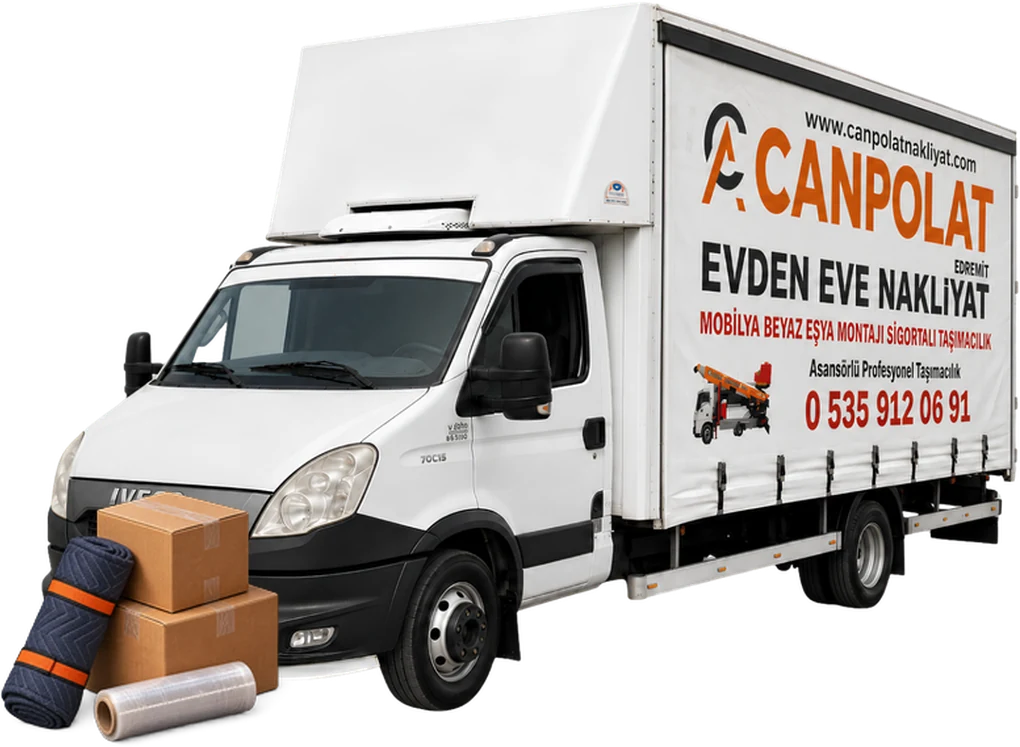
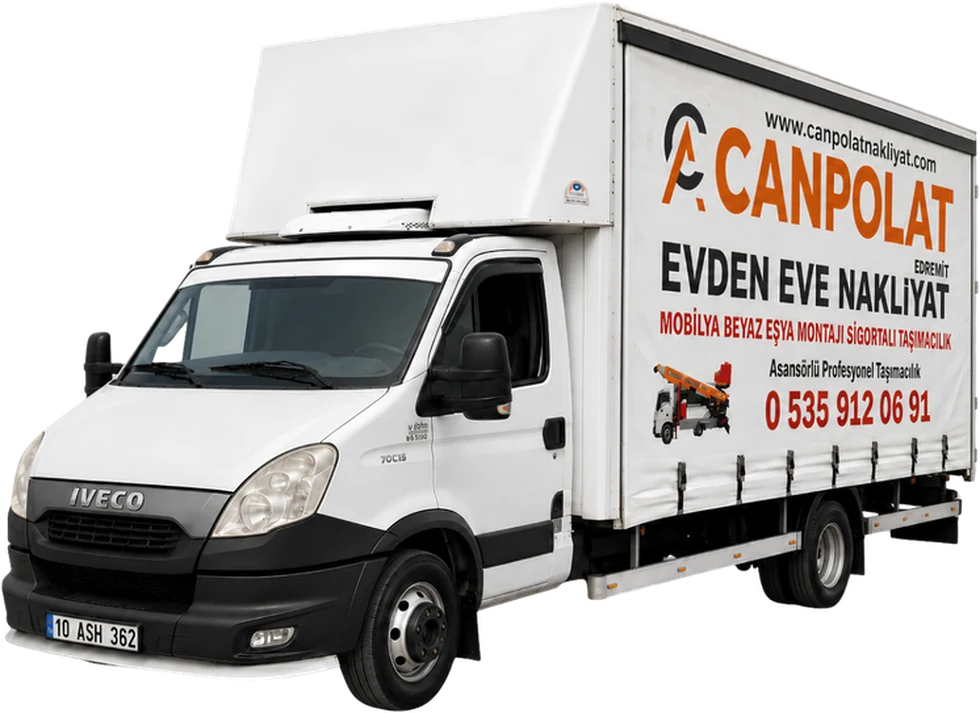
feat: animate the CTA and ground the truck properly
Entrance, played once when the band scrolls into view via the existing
revealOnView helper: the logo drops in, the two halves of the headline
wipe open behind a clip-path 120ms apart, the buttons rise on a stagger,
the truck arrives from the right on a decelerating curve, and the boxes
drop and settle once it has stopped.

Ambient loops at 3.5s, 5.2s and 8.3s — the arc dashes march along the
route, the truck breathes a 3px idle, and the pin emits a ring. The
durations do not divide into each other, so the three never sync up.

The entrance transform sits on a wrapper and the idle on the image itself,
because both animate `transform` and would otherwise cancel each other.

Grounding the truck took two attempts. A dark contact shadow measured
correctly — straddling the wheel line — but stayed invisible: the band's
background is already near black, so a dark ellipse has almost nothing to
darken. The floor is now built the other way round, the way the reference
does it: a faint light pool standing in for a reflective surface, with a
small dark core at the tyre contact on top of it. The pool also breathes
in counterphase with the idle so the truck does not appear to float.

- cta-kamyon.webp is now the truck alone and cta-koli.webp holds the
  boxes, since the two needed separate entrances.
- The mirrored reflection is dropped. It sat below the truck at top: 100%,
  where the section's overflow clipped roughly 64% of it, so it downloaded
[…]

diff --git a/index-template.html b/index-template.html
@@ -29,7 +29,7 @@
   <link rel="preload" as="image" href="/assets/images/hero/canpolat-hero-bg-2026.webp?v=20260809-02" media="(min-width: 721px)">
   <link rel="preload" as="image" href="/assets/images/hero-r8/platform-p00-r8-reference-exact.png" fetchpriority="high">
   <link rel="preload" as="image" href="/assets/images/hero-r8/truck-t00-r6.png" fetchpriority="high">
-  <link rel="stylesheet" href="/css/style.css?v=20260809-10">
+  <link rel="stylesheet" href="/css/style.css?v=20260809-11">
   <link rel="stylesheet" href="/css/hero-animated.css?v=20260809-01">
   <script type="application/ld+json">
   {
@@ -470,6 +470,7 @@
           <path class="final-cta__arc-line" d="M8 192C8 74 118 8 246 8s206 62 206 170"/>
         </svg>
         <span class="final-cta__pin">
+          <span class="final-cta__pin-ring"></span>
           <svg viewBox="0 0 24 24"><path d="M19 10c0 5.5-7 11-7 11S5 15.5 5 10a7 7 0 1 1 14 0Z"/><circle cx="12" cy="10" r="2.4"/></svg>
         </span>
       </div>
@@ -477,7 +478,7 @@
       <div class="container final-cta__inner">
         <div class="final-cta__content">
           <svg class="cta__logo" aria-hidden="true" version="1.1" viewBox="0 0 597 150.91" xmlns="http://www.w3.org/2000/svg" xmlns:xlink="http://www.w3.org/1999/xlink"><defs><g id="p"><path d="m31.844 1.0625c9.7969 0 17.703-3.5781 22.875-10.031l-9.5781-8.6562c-3.3438 4.0156-7.4375 6.2188-12.531 6.2188-8.75 0-14.828-6.0781-14.828-15.188 0-9.125 6.0781-15.203 14.828-15.203 5.0938 0 9.1875 2.2031 12.531 6.2344l9.5781-8.6719c-5.1719-6.4531-13.078-10.031-22.875-10.031-16.875 0-29.266 11.484-29.266 27.672s12.391 27.656 29.266 27.656z"/></g><g id="d"><path d="m45.141 0h15.656l-23.562-53.203h-14.812l-23.484 53.203h15.344l4.1875-10.344h22.5zm-22.266-21.438 6.8438-17.016 6.8438 17.016z"/></g><g id="o"><path d="m41.188-53.203v28.344l-23.484-28.344h-12.391v53.203h14.75v-28.344l23.484 28.344h12.391v-53.203z"/></g><g id="n"><path d="m29.641-53.203h-24.328v53.203h15.062v-13.906h9.2656c14.516 0 23.641-7.5312 23.641-19.609 0-12.156-9.125-19.688-23.641-19.688zm-0.90625 27.438h-8.3594v-15.578h8.3594c6.2188 0 9.3438 2.8906 9.3438 7.8281 0 4.8594-3.125 7.75-9.3438 7.75z"/></g><g id="m"><path d="m32.141 1.0625c17.031 0 29.578-11.703 29.578-27.656 0-15.969-12.547-27.672-29.578-27.672-17.016 0-29.562 11.703-29.562 27.672 0 15.953 12.547 27.656 29.562 27.656zm0-12.469c-8.0469 0-14.359-6-14.359-15.188 0-9.2031 6.3125-15.203 14.359-15.203 8.0625 0 14.375 6 14.375 15.203 0 9.1875-6.3125 15.188-14.375 15.188z"/></g><g id="l"><path d="m5.3125 0h40.438v-11.938h-25.375v-41.266h-15.062z"/></g><g id="k"><path d="m16.641 0h15.047v-41.266h16.266v-11.938h-47.656v11.938h16.344z"/></g><g id="a"><path d="m11.453-7.3125v-6.125h13.375v-7.0781h-13.375v-5.6406h15.188v-7.3125h-23.625v33.469h24.188v-7.3125z"/></g><g id="c"><path d="m25.125-33.469-8.3438 21.797-8.1719-21.797h-9.2188l12.875 33.469h8.3906l12.906-33.469z"/></g><g id="j"><path d="m3.0156 0h14.234c9.9844 0 16.828-6.4531 16.828-16.734s-6.8438-16.734-16.828-16.734h-14.234zm8.5156-7.5469v-18.375h5.375c5.125 0 8.5625 3.4062 8.5625 9.1875s-3.4375 9.1875-8.5625 9.1875z"/></g><g id="b"><path d="m23.328-33.469v17.828l-13.297-17.828h-7.0156v33.469h8.3438v-17.828l13.297 17.828h7.0156v-33.469z"/></g><g id="i"><path d="m25.562 0h8.8594l-13.344-33.469h-8.3906l-13.297 33.469h8.7031l2.3594-6.5h12.734zm-12.609-13.484 3.875-10.703 3.875 10.703z"/></g><g id="h"><path d="m23.234 0h9.9062l-12.953-18.641 12.297-14.828h-9.375l-11.656 13.906v-13.906h-8.4375v33.469h8.4375v-8.3594l3.1719-3.7812z"/></g><g id="g"><path d="m3.0156 0h22.891v-7.5h-14.375v-25.969h-8.5156z"/></g><g id="f"><path d="m7.2656-36.094c2.5 0 4.2656-1.9688 4.2656-4.7344 0-2.7344-1.7656-4.6875-4.2656-4.6875-2.4844 0-4.25 1.9531-4.25 4.6875 0 2.7656 1.7656 4.7344 4.25 4.7344zm-4.25 36.094h8.5156v-33.469h-8.5156z"/></g><g id="e"><path d="m30.688-33.469h-8.2656l-7.1406 13.297-7.1406-13.297h-9l11.484 21.328v12.141h8.5312v-12z"/></g></defs><g transform="translate(-122.16 -221.96)" fill="#ef7c00"><use x="221.16452" y="315.61823" xlink:href="#p"/><use x="276.33868" y="315.61823" xlink:href="#d"/><use x="336.07272" y="315.61823" xlink:href="#o"/><use x="397.32672" y="315.61823" xlink:href="#n"/><use x="453.33688" y="315.61823" xlink:href="#m"/><use x="517.6308" y="315.61823" xlink:href="#l"/><use x="564.599" y="315.61823" xlink:href="#d"/><use x="621.67316" y="315.61823" xlink:href="#k"/></g><g transform="translate(-122.16 -221.96)" fill="#253349"><use x="245.85118" y="368.4827" xlink:href="#a"/><use x="274.33759" y="368.4827" xlink:href="#c"/><use x="306.65405" y="368.4827" xlink:href="#j"/><use x="342.19788" y="368.4827" xlink:href="#a"/><use x="371.11487" y="368.4827" xlink:href="#b"/><use x="418.32016" y="368.4827" xlink:href="#a"/><use x="446.80707" y="368.4827" xlink:href="#c"/><use x="479.12329" y="368.4827" xlink:href="#a"/><use x="520.56238" y="368.4827" xlink:href="#b"/><use x="555.24554" y="368.4827" xlink:href="#i"/><use x="589.06812" y="368.4827" xlink:href="#h"/><use x="621.42761" y="368.4827" xlink:href="#g"/><use x="647.6767" y="368.4827" xlink:href="#f"/><use x="662.26428" y="368.4827" xlink:href="#e"/><use x="691.95587" y="368.4827" xlink:href="#a"/></g><path d="m59.641 75.003c2.4102-4.3594 2.1562-5.2852 4.5547-6.2422l6.5898 13.426 21.734.0664c-1.0273-3.9922-22.461-45-26.949-54.375-.74219-1.5547-.96875-2.4805-2.3594-3.4492l-47.535 93.883c-2.1172 4.2578-14.918 29.094-15.219 32.129l20.828.0274c5.7695-9.8242 10.566-22.445 16.527-31.902 7.3672 2.0898 11.395 5.5 23.09 6.375 16.828 1.2617 32.871-3.3672 45.293-13.625 2.457-2.0312 13.355-11.719 12.949-15.953-5.8906-.64063-14.547-.13672-20.73-.13672-9.207.004-5.4297 1.6445-15.453 5.9258-9.1367 3.9023-27.469 4.7773-35.332-1.582.28906-1.2812.60546-1.6406.71484-2.7578l5.7852-11.043 3.1797-6.1992c.77735-1.7031 1.668-2.9961 2.332-4.5664" fill="#253349" fill-rule="evenodd"/><path d="m12.738 93.788c2.2617-5.4062 11.633-22.285 12.09-25.277.55469-3.6406-.23046-8.1055.35547-12.234 4.4453-31.293 43.453-47.047 68.051-25.531 2.5977 2.2734 3.7461 4.0742 6.1133 6.3945 1.9648 1.9297 8.0898 1.0508 11.57 1.0508 4.3594-.004 8.7734.0664 13.125-.0391-.69531-4.8906-10.43-16.914-13.047-19.652-18.336-19.187-50.637-23.773-73.379-12.234-25.801 13.09-40.98 45.332-30.789 76.32.66797 2.0195 1.3555 3.793 2.207 5.8359.4375 1.0508.8125 1.9141 1.1992 2.7852 1.0742 2.4336.51172 1.8789 2.5039 2.582" fill="#253349" fill-rule="evenodd"/><path d="m90.59 131.63 9.125 18.996h20.715l-8.4258-19.012z" fill="#ef7c00"/><path d="m.45725 150.44h20.828l42.91-81.68 6.5898 13.426h21.734l-29.313-57.758z" fill="#ef7c00"/></svg>
-          <h2>Taşınmaya <em>Hazır mısınız?</em></h2>
+          <h2><span class="final-cta__title-part final-cta__title-part--1">Taşınmaya</span> <em class="final-cta__title-part final-cta__title-part--2">Hazır mısınız?</em></h2>
           <p class="final-cta__lead">Canpolat Nakliyat ile hızlı, güvenli ve planlı taşınma süreci için hemen bizimle iletişime geçin.</p>
 
           <div class="final-cta__actions">
@@ -499,7 +500,13 @@
         </div>
 
         <div class="final-cta__visual">
-          <img class="final-cta__truck" src="/assets/images/cta-kamyon.webp?v=20260809-01" alt="Canpolat Nakliyat kamyonu ve taşımaya hazırlanmış koliler" width="1020" height="747" loading="lazy" decoding="async">
+          <div class="final-cta__stage">
+            <span class="final-cta__ground" aria-hidden="true"></span>
+            <div class="final-cta__truck-wrap">
+              <img class="final-cta__truck" src="/assets/images/cta-kamyon.webp?v=20260809-02" alt="Canpolat Nakliyat kamyonu" width="980" height="713" loading="lazy" decoding="async">
+            </div>
+            <img class="final-cta__boxes" src="/assets/images/cta-koli.webp?v=20260809-02" alt="Taşımaya hazırlanmış koliler, koruyucu battaniye ve streç film" width="294" height="256" loading="lazy" decoding="async">
+          </div>
           <a class="final-cta__phone" href="tel:+905359120691">
             <span class="final-cta__phone-icon" aria-hidden="true">
               <svg viewBox="0 0 24 24"><path d="M6.3 4.5h3l1.5 3.7-1.9 1.4a11.5 11.5 0 0 0 5.5 5.5l1.4-1.9 3.7 1.5v3a1.8 1.8 0 0 1-2 1.8A15.6 15.6 0 0 1 4.5 6.5a1.8 1.8 0 0 1 1.8-2Z"/></svg>
@@ -537,7 +544,7 @@
     <a class="mobile-contact-bar__wa" href="https://wa.me/905359120691" target="_blank" rel="noopener"><svg aria-hidden="true" viewBox="0 0 24 24"><path d="M20.5 11.8a8.5 8.5 0 0 1-12.6 7.4L3.5 20.5l1.2-4.3a8.5 8.5 0 1 1 15.8-4.4Z"/><path d="M8.2 7.8c.5-.6 1.1-.3 1.3.2l.9 2-1 1c.8 1.5 2 2.7 3.6 3.4l.9-1 2.1 1c.4.2.5.8.2 1.2-.8 1.1-2 1.4-3.3 1-3.3-1.1-5.9-3.6-7-6.9-.4-1.2.1-2.3 1.1-3 .4-.3.9-.2 1.2.1Z"/></svg>WhatsApp</a>
   </div>
 
-  <script defer src="/js/script.js?v=20260809-03"></script>
+  <script defer src="/js/script.js?v=20260809-04"></script>
   <script defer src="/js/hero-animated.js?v=20260809-02"></script>
   <script defer src="/js/quote-form.js?v=20260809-01"></script>
 </body>

diff --git a/css/style.css b/css/style.css
@@ -352,7 +352,8 @@ address { font-style: normal; }
 .final-cta__arc { position: absolute; right: 3%; top: 8%; width: min(38%, 540px); height: 42%; }
 .final-cta__arc-line { fill: none; stroke: rgba(239,124,0,.55); stroke-width: 2; stroke-dasharray: 9 11; stroke-linecap: round; }
 .final-cta__pin { position: absolute; right: 40.5%; top: 4.5%; width: 28px; height: 28px; color: var(--orange); }
-.final-cta__pin svg { width: 30px; height: 30px; fill: var(--orange); stroke: none; }
+.final-cta__pin svg { position: relative; z-index: 1; width: 28px; height: 28px; fill: var(--orange); stroke: none; }
+.final-cta__pin-ring { position: absolute; z-index: 0; left: 50%; top: 34%; width: 30px; height: 30px; margin: -15px 0 0 -15px; border: 2px solid rgba(239,124,0,.85); border-radius: 50%; opacity: 0; }
 
 .final-cta__inner { position: relative; z-index: 1; display: grid; grid-template-columns: minmax(0, 1.12fr) minmax(0, .88fr); align-items: center; gap: 34px; padding: 44px 0 48px; }
 .final-cta__content { min-width: 0; }
@@ -360,6 +361,8 @@ address { font-style: normal; }
 .cta__logo [fill="#253349"] { fill: #ffffff; }
 .final-cta h2 { margin-top: 22px; font-size: clamp(34px, 4.4vw, 62px); line-height: 1.02; letter-spacing: -.045em; font-weight: 850; }
 .final-cta h2 em { color: var(--orange); font-style: normal; }
+/* clip-path satır içi ögede güvenilir çalışmaz; parçalar inline-block olur. */
+.final-cta__title-part { display: inline-block; }
 .final-cta__lead { max-width: 620px; margin-top: 20px; padding-left: 16px; border-left: 3px solid var(--orange); color: #cdd6e2; font-size: 16px; line-height: 1.7; }
 .final-cta__actions { margin-top: 30px; display: flex; flex-wrap: wrap; gap: 12px; }
 .final-cta__actions .button svg { width: 21px; height: 21px; }
@@ -372,7 +375,19 @@ address { font-style: normal; }
 .final-cta__features svg { flex: 0 0 22px; width: 22px; height: 22px; color: var(--orange); stroke-width: 1.7; }
 
 .final-cta__visual { position: relative; min-width: 0; display: grid; justify-items: end; gap: 18px; }
-.final-cta__truck { width: 100%; max-width: 470px; height: auto; filter: drop-shadow(0 24px 30px rgba(0,0,0,.42)); }
+
+/* Kamyon sahnesi. Zemin gölgesi ve yansıma ayrı katmanlar; kamyon kendi
+   içinde salındığı için gölge yerinde kalır, aksi hâlde havada sallanır. */
+.final-cta__stage { position: relative; width: 100%; max-width: 470px; }
+/* Neredeyse siyah zeminde koyu gölge görünmez; bu yüzden zemin ters kurulur:
+   altta yansıtıcı zemini temsil eden soluk bir ışık havuzu, üstünde tekerlek
+   temas çizgisinde dar ve koyu bir çekirdek. Ellipsin merkezi tekerlek
+   hizasına oturur; gövdenin arkasında kalırsa kamyon havada durur. */
+.final-cta__ground { position: absolute; z-index: 0; left: -2%; right: -6%; bottom: -9%; height: 24%; border-radius: 50%; background: radial-gradient(ellipse at 50% 50%, rgba(158,190,235,.17) 0%, rgba(158,190,235,.06) 44%, transparent 72%); filter: blur(11px); }
+.final-cta__ground::after { content: ""; position: absolute; left: 16%; right: 12%; top: 40%; height: 26%; border-radius: 50%; background: radial-gradient(ellipse at 50% 50%, rgba(2,5,11,.9) 0%, rgba(2,5,11,.5) 48%, transparent 76%); filter: blur(5px); }
+.final-cta__truck-wrap { position: relative; z-index: 1; }
+.final-cta__truck { width: 100%; height: auto; filter: saturate(.86) brightness(.94) contrast(1.02); }
+.final-cta__boxes { position: absolute; z-index: 2; left: -3%; bottom: 0; width: 30%; height: auto; filter: saturate(.9) brightness(.95) drop-shadow(0 10px 12px rgba(4,9,17,.5)); }
 .final-cta__phone { display: inline-flex; align-items: center; gap: 13px; }
 .final-cta__phone-icon { flex: 0 0 46px; width: 46px; height: 46px; display: grid; place-items: center; border: 2px solid rgba(239,124,0,.7); border-radius: 50%; color: var(--orange); transition: background-color .18s ease, border-color .18s ease; }
 .final-cta__phone-icon svg { width: 21px; height: 21px; }
@@ -464,7 +479,7 @@ address { font-style: normal; }
   .about__grid, .why-us__grid, .regions__grid, .faq__grid, .quote__grid { grid-template-columns: 1fr; gap: 48px; }
   .final-cta__inner { grid-template-columns: 1fr; gap: 34px; }
   .final-cta__visual { justify-items: start; }
-  .final-cta__truck { max-width: 520px; }
+  .final-cta__stage { max-width: 520px; }
   .final-cta__arc, .final-cta__pin { display: none; }
   .about__grid { gap: 54px; }
   .why-us__intro { max-width: 680px; }
@@ -706,4 +721,61 @@ address { font-style: normal; }
 @media (prefers-reduced-motion: reduce) {
   .regions__visual.is-armed .regions-map .rt,
   .regions__visual.is-armed.is-visible .regions-map .rt { stroke-dasharray: none; stroke-dashoffset: 0; transition: none; }
+}
+
+/* ---------------------------------------------------------------------------
+   CTA hareketi.
+   Giriş: bant görünür alana girdiğinde bir kez oynar (revealOnView).
+   Döngü: yay akışı, kamyon salınımı ve pin halkası; süreler birbirine
+   bölünmediği için asla senkron atmaz.
+   Kamyonun giriş dönüşümü sarmalayıcıda, salınımı görselin kendisinde durur;
+   ikisi aynı transform üzerinde çakışmasın diye ayrıldı.
+--------------------------------------------------------------------------- */
+.final-cta.is-armed .cta__logo,
+.final-cta.is-armed .final-cta__actions .button,
+.final-cta.is-armed .final-cta__truck-wrap,
+.final-cta.is-armed .final-cta__boxes { opacity: 0; }
+.final-cta.is-armed .final-cta__title-part { clip-path: inset(0 100% 0 0); }
+
+.final-cta.is-armed.is-visible .cta__logo { animation: cta-drop .6s cubic-bezier(.22,1,.36,1) 40ms both; }
+.final-cta.is-armed.is-visible .final-cta__title-part { animation: cta-wipe .75s cubic-bezier(.22,1,.36,1) both; }
+.final-cta.is-armed.is-visible .final-cta__title-part--1 { animation-delay: 160ms; }
+.final-cta.is-armed.is-visible .final-cta__title-part--2 { animation-delay: 280ms; }
+.final-cta.is-armed.is-visible .final-cta__actions .button { animation: cta-rise .55s cubic-bezier(.22,1,.36,1) both; }
+.final-cta.is-armed.is-visible .final-cta__actions .button:nth-child(1) { animation-delay: 520ms; }
+.final-cta.is-armed.is-visible .final-cta__actions .button:nth-child(2) { animation-delay: 610ms; }
+.final-cta.is-armed.is-visible .final-cta__truck-wrap { animation: cta-arrive 1.05s cubic-bezier(.16,.84,.3,1) 180ms both; }
+.final-cta.is-armed.is-visible .final-cta__boxes { animation: cta-settle .7s cubic-bezier(.3,1.5,.5,1) 1.15s both; }
+
+/* Döngüler */
+.final-cta.is-visible .final-cta__arc-line { animation: cta-flow 3.5s linear infinite; }
+.final-cta.is-visible .final-cta__truck { animation: cta-idle 5.2s ease-in-out 1.4s infinite; }
+.final-cta.is-visible .final-cta__ground { animation: cta-ground 5.2s ease-in-out 1.4s infinite; }
+.final-cta.is-visible .final-cta__pin-ring { animation: cta-ping 8.3s cubic-bezier(.2,.7,.4,1) 2.2s infinite; }
+
+@keyframes cta-drop { from { opacity: 0; transform: translateY(-14px); } to { opacity: 1; transform: none; } }
+@keyframes cta-wipe { from { clip-path: inset(0 100% 0 0); } to { clip-path: inset(0 -2% 0 0); } }
+@keyframes cta-rise { from { opacity: 0; transform: translateY(14px); } to { opacity: 1; transform: none; } }
+@keyframes cta-arrive { from { opacity: 0; transform: translateX(64px); } to { opacity: 1; transform: none; } }
+@keyframes cta-settle { 0% { opacity: 0; transform: translateY(-30px); } 60% { opacity: 1; } 100% { opacity: 1; transform: none; } }
+@keyframes cta-flow { to { stroke-dashoffset: -40; } }
+@keyframes cta-idle { 0%, 100% { transform: translateY(0); } 50% { transform: translateY(-3px); } }
+@keyframes cta-ground { 0%, 100% { transform: scaleX(1); opacity: 1; } 50% { transform: scaleX(.97); opacity: .82; } }
+@keyframes cta-ping { 0%, 88% { transform: scale(.7); opacity: 0; } 91% { opacity: .9; } 100% { transform: scale(2.4); opacity: 0; } }
+
+@media (prefers-reduced-motion: reduce) {
+  .final-cta.is-armed .cta__logo,
+  .final-cta.is-armed .final-cta__actions .button,
+  .final-cta.is-armed .final-cta__truck-wrap,
+  .final-cta.is-armed .final-cta__boxes { opacity: 1; }
+  .final-cta.is-armed .final-cta__title-part { clip-path: none; }
+  .final-cta.is-armed.is-visible .cta__logo,
+  .final-cta.is-armed.is-visible .final-cta__title-part,
+  .final-cta.is-armed.is-visible .final-cta__actions .button,
+  .final-cta.is-armed.is-visible .final-cta__truck-wrap,
+  .final-cta.is-armed.is-visible .final-cta__boxes,
+  .final-cta.is-visible .final-cta__arc-line,
+  .final-cta.is-visible .final-cta__truck,
+  .final-cta.is-visible .final-cta__ground,
+  .final-cta.is-visible .final-cta__pin-ring { animation: none; }
 }

diff --git a/gizlilik.html b/gizlilik.html
@@ -21,7 +21,7 @@
   <meta name="twitter:description" content="Canpolat Nakliyat web sitesi, teklif formu ve iletişim kanalları üzerinden işlenebilen kişisel verilere ilişkin gizlilik bilgilendirmesi.">
   <link rel="icon" href="/assets/images/favicon-canpolat.svg" type="image/svg+xml">
   <link rel="manifest" href="/manifest.webmanifest">
-  <link rel="stylesheet" href="/css/style.css?v=20260809-10">
+  <link rel="stylesheet" href="/css/style.css?v=20260809-11">
   <script type="application/ld+json">
 {
   "@context": "https://schema.org",
@@ -204,6 +204,6 @@
   <a class="mobile-contact-bar__phone" href="tel:+905359120691"><svg aria-hidden="true" viewBox="0 0 24 24"><path d="M7 3h3l1.5 4-2 1.5a15 15 0 0 0 6 6l1.5-2 4 1.5v3c0 2.2-1.8 4-4 4C9.3 21 3 14.7 3 7c0-2.2 1.8-4 4-4Z"/></svg>Ara</a>
   <a class="mobile-contact-bar__wa" href="https://wa.me/905359120691" target="_blank" rel="noopener"><svg aria-hidden="true" viewBox="0 0 24 24"><path d="M20.5 11.8a8.5 8.5 0 0 1-12.6 7.4L3.5 20.5l1.2-4.3a8.5 8.5 0 1 1 15.8-4.4Z"/><path d="M8.2 7.8c.5-.6 1.1-.3 1.3.2l.9 2-1 1c.8 1.5 2 2.7 3.6 3.4l.9-1 2.1 1c.4.2.5.8.2 1.2-.8 1.1-2 1.4-3.3 1-3.3-1.1-5.9-3.6-7-6.9-.4-1.2.1-2.3 1.1-3 .4-.3.9-.2 1.2.1Z"/></svg>WhatsApp</a>
 </div>
-<script defer src="/js/script.js?v=20260809-03"></script>
+<script defer src="/js/script.js?v=20260809-04"></script>
 </body>
 </html>

diff --git a/bolgeler/edremit-nakliyat.html b/bolgeler/edremit-nakliyat.html
@@ -23,7 +23,7 @@
   <meta name="twitter:description" content="Edremit merkezli nakliyat; Akçay, Altınoluk, Havran, İvrindi ve Balıkesir çevresinde hizmet, Türkiye geneli şehirler arası taşıma.">
   <link rel="icon" href="/assets/images/favicon-canpolat.svg" type="image/svg+xml">
   <link rel="manifest" href="/manifest.webmanifest">
-  <link rel="stylesheet" href="/css/style.css?v=20260809-10">
+  <link rel="stylesheet" href="/css/style.css?v=20260809-11">
   <script type="application/ld+json">
 {
   "@context": "https://schema.org",
@@ -246,6 +246,6 @@
   <a class="mobile-contact-bar__phone" href="tel:+905359120691"><svg aria-hidden="true" viewBox="0 0 24 24"><path d="M7 3h3l1.5 4-2 1.5a15 15 0 0 0 6 6l1.5-2 4 1.5v3c0 2.2-1.8 4-4 4C9.3 21 3 14.7 3 7c0-2.2 1.8-4 4-4Z"/></svg>Ara</a>
   <a class="mobile-contact-bar__wa" href="https://wa.me/905359120691" target="_blank" rel="noopener"><svg aria-hidden="true" viewBox="0 0 24 24"><path d="M20.5 11.8a8.5 8.5 0 0 1-12.6 7.4L3.5 20.5l1.2-4.3a8.5 8.5 0 1 1 15.8-4.4Z"/><path d="M8.2 7.8c.5-.6 1.1-.3 1.3.2l.9 2-1 1c.8 1.5 2 2.7 3.6 3.4l.9-1 2.1 1c.4.2.5.8.2 1.2-.8 1.1-2 1.4-3.3 1-3.3-1.1-5.9-3.6-7-6.9-.4-1.2.1-2.3 1.1-3 .4-.3.9-.2 1.2.1Z"/></svg>WhatsApp</a>
 </div>
-<script defer src="/js/script.js?v=20260809-03"></script>
+<script defer src="/js/script.js?v=20260809-04"></script>
 </body>
 </html>

diff --git a/hakkimizda.html b/hakkimizda.html
@@ -23,7 +23,7 @@
   <meta name="twitter:description" content="Canpolat Nakliyat’ın Edremit merkezli evden eve, şehirler arası, ofis, asansörlü taşıma ve paketleme yaklaşımını tanıyın.">
   <link rel="icon" href="/assets/images/favicon-canpolat.svg" type="image/svg+xml">
   <link rel="manifest" href="/manifest.webmanifest">
-  <link rel="stylesheet" href="/css/style.css?v=20260809-10">
+  <link rel="stylesheet" href="/css/style.css?v=20260809-11">
   <script type="application/ld+json">
 {
   "@context": "https://schema.org",
@@ -207,6 +207,6 @@
   <a class="mobile-contact-bar__phone" href="tel:+905359120691"><svg aria-hidden="true" viewBox="0 0 24 24"><path d="M7 3h3l1.5 4-2 1.5a15 15 0 0 0 6 6l1.5-2 4 1.5v3c0 2.2-1.8 4-4 4C9.3 21 3 14.7 3 7c0-2.2 1.8-4 4-4Z"/></svg>Ara</a>
   <a class="mobile-contact-bar__wa" href="https://wa.me/905359120691" target="_blank" rel="noopener"><svg aria-hidden="true" viewBox="0 0 24 24"><path d="M20.5 11.8a8.5 8.5 0 0 1-12.6 7.4L3.5 20.5l1.2-4.3a8.5 8.5 0 1 1 15.8-4.4Z"/><path d="M8.2 7.8c.5-.6 1.1-.3 1.3.2l.9 2-1 1c.8 1.5 2 2.7 3.6 3.4l.9-1 2.1 1c.4.2.5.8.2 1.2-.8 1.1-2 1.4-3.3 1-3.3-1.1-5.9-3.6-7-6.9-.4-1.2.1-2.3 1.1-3 .4-.3.9-.2 1.2.1Z"/></svg>WhatsApp</a>
 </div>
-<script defer src="/js/script.js?v=20260809-03"></script>
+<script defer src="/js/script.js?v=20260809-04"></script>
 </body>
 </html>

diff --git a/404.html b/404.html
@@ -20,7 +20,7 @@
   <meta name="twitter:description" content="Aradığınız sayfa bulunamadı. Canpolat Nakliyat ana sayfasına dönerek hizmetlere ve iletişim seçeneklerine ulaşabilirsiniz.">
   <link rel="icon" href="/assets/images/favicon-canpolat.svg" type="image/svg+xml">
   <link rel="manifest" href="/manifest.webmanifest">
-  <link rel="stylesheet" href="/css/style.css?v=20260809-10">
+  <link rel="stylesheet" href="/css/style.css?v=20260809-11">
 
 </head>
 <body>
@@ -113,6 +113,6 @@
   <a class="mobile-contact-bar__phone" href="tel:+905359120691"><svg aria-hidden="true" viewBox="0 0 24 24"><path d="M7 3h3l1.5 4-2 1.5a15 15 0 0 0 6 6l1.5-2 4 1.5v3c0 2.2-1.8 4-4 4C9.3 21 3 14.7 3 7c0-2.2 1.8-4 4-4Z"/></svg>Ara</a>
   <a class="mobile-contact-bar__wa" href="https://wa.me/905359120691" target="_blank" rel="noopener"><svg aria-hidden="true" viewBox="0 0 24 24"><path d="M20.5 11.8a8.5 8.5 0 0 1-12.6 7.4L3.5 20.5l1.2-4.3a8.5 8.5 0 1 1 15.8-4.4Z"/><path d="M8.2 7.8c.5-.6 1.1-.3 1.3.2l.9 2-1 1c.8 1.5 2 2.7 3.6 3.4l.9-1 2.1 1c.4.2.5.8.2 1.2-.8 1.1-2 1.4-3.3 1-3.3-1.1-5.9-3.6-7-6.9-.4-1.2.1-2.3 1.1-3 .4-.3.9-.2 1.2.1Z"/></svg>WhatsApp</a>
 </div>
-<script defer src="/js/script.js?v=20260809-03"></script>
+<script defer src="/js/script.js?v=20260809-04"></script>
 </body>
 </html>

diff --git a/hizmetler/sehirler-arasi-nakliyat.html b/hizmetler/sehirler-arasi-nakliyat.html
@@ -26,7 +26,7 @@
   <meta name="twitter:image" content="https://www.canpolatnakliyat.com/assets/images/service-sehirler-arasi.webp">
   <link rel="icon" href="/assets/images/favicon-canpolat.svg" type="image/svg+xml">
   <link rel="manifest" href="/manifest.webmanifest">
-  <link rel="stylesheet" href="/css/style.css?v=20260809-10">
+  <link rel="stylesheet" href="/css/style.css?v=20260809-11">
   <script type="application/ld+json">
 {
   "@context": "https://schema.org",
@@ -251,6 +251,6 @@
   <a class="mobile-contact-bar__phone" href="tel:+905359120691"><svg aria-hidden="true" viewBox="0 0 24 24"><path d="M7 3h3l1.5 4-2 1.5a15 15 0 0 0 6 6l1.5-2 4 1.5v3c0 2.2-1.8 4-4 4C9.3 21 3 14.7 3 7c0-2.2 1.8-4 4-4Z"/></svg>Ara</a>
   <a class="mobile-contact-bar__wa" href="https://wa.me/905359120691" target="_blank" rel="noopener"><svg aria-hidden="true" viewBox="0 0 24 24"><path d="M20.5 11.8a8.5 8.5 0 0 1-12.6 7.4L3.5 20.5l1.2-4.3a8.5 8.5 0 1 1 15.8-4.4Z"/><path d="M8.2 7.8c.5-.6 1.1-.3 1.3.2l.9 2-1 1c.8 1.5 2 2.7 3.6 3.4l.9-1 2.1 1c.4.2.5.8.2 1.2-.8 1.1-2 1.4-3.3 1-3.3-1.1-5.9-3.6-7-6.9-.4-1.2.1-2.3 1.1-3 .4-.3.9-.2 1.2.1Z"/></svg>WhatsApp</a>
 </div>
-<script defer src="/js/script.js?v=20260809-03"></script>
+<script defer src="/js/script.js?v=20260809-04"></script>
 </body>
 </html>

diff --git a/hizmetler/parca-esya-tasimaciligi.html b/hizmetler/parca-esya-tasimaciligi.html
@@ -26,7 +26,7 @@
   <meta name="twitter:image" content="https://www.canpolatnakliyat.com/assets/images/service-evden-eve.webp">
   <link rel="icon" href="/assets/images/favicon-canpolat.svg" type="image/svg+xml">
   <link rel="manifest" href="/manifest.webmanifest">
-  <link rel="stylesheet" href="/css/style.css?v=20260809-10">
+  <link rel="stylesheet" href="/css/style.css?v=20260809-11">
   <script type="application/ld+json">
   {
     "@context": "https://schema.org",
@@ -251,6 +251,6 @@
   <a class="mobile-contact-bar__phone" href="tel:+905359120691"><svg aria-hidden="true" viewBox="0 0 24 24"><path d="M7 3h3l1.5 4-2 1.5a15 15 0 0 0 6 6l1.5-2 4 1.5v3c0 2.2-1.8 4-4 4C9.3 21 3 14.7 3 7c0-2.2 1.8-4 4-4Z"/></svg>Ara</a>
   <a class="mobile-contact-bar__wa" href="https://wa.me/905359120691" target="_blank" rel="noopener"><svg aria-hidden="true" viewBox="0 0 24 24"><path d="M20.5 11.8a8.5 8.5 0 0 1-12.6 7.4L3.5 20.5l1.2-4.3a8.5 8.5 0 1 1 15.8-4.4Z"/><path d="M8.2 7.8c.5-.6 1.1-.3 1.3.2l.9 2-1 1c.8 1.5 2 2.7 3.6 3.4l.9-1 2.1 1c.4.2.5.8.2 1.2-.8 1.1-2 1.4-3.3 1-3.3-1.1-5.9-3.6-7-6.9-.4-1.2.1-2.3 1.1-3 .4-.3.9-.2 1.2.1Z"/></svg>WhatsApp</a>
 </div>
-<script defer src="/js/script.js?v=20260809-03"></script>
+<script defer src="/js/script.js?v=20260809-04"></script>
 </body>
 </html>

diff --git a/hizmetler/asansorlu-tasima.html b/hizmetler/asansorlu-tasima.html
@@ -26,7 +26,7 @@
   <meta name="twitter:image" content="https://www.canpolatnakliyat.com/assets/images/service-asansorlu.webp">
   <link rel="icon" href="/assets/images/favicon-canpolat.svg" type="image/svg+xml">
   <link rel="manifest" href="/manifest.webmanifest">
-  <link rel="stylesheet" href="/css/style.css?v=20260809-10">
+  <link rel="stylesheet" href="/css/style.css?v=20260809-11">
   <script type="application/ld+json">
 {
   "@context": "https://schema.org",
@@ -258,6 +258,6 @@
   <a class="mobile-contact-bar__phone" href="tel:+905359120691"><svg aria-hidden="true" viewBox="0 0 24 24"><path d="M7 3h3l1.5 4-2 1.5a15 15 0 0 0 6 6l1.5-2 4 1.5v3c0 2.2-1.8 4-4 4C9.3 21 3 14.7 3 7c0-2.2 1.8-4 4-4Z"/></svg>Ara</a>
   <a class="mobile-contact-bar__wa" href="https://wa.me/905359120691" target="_blank" rel="noopener"><svg aria-hidden="true" viewBox="0 0 24 24"><path d="M20.5 11.8a8.5 8.5 0 0 1-12.6 7.4L3.5 20.5l1.2-4.3a8.5 8.5 0 1 1 15.8-4.4Z"/><path d="M8.2 7.8c.5-.6 1.1-.3 1.3.2l.9 2-1 1c.8 1.5 2 2.7 3.6 3.4l.9-1 2.1 1c.4.2.5.8.2 1.2-.8 1.1-2 1.4-3.3 1-3.3-1.1-5.9-3.6-7-6.9-.4-1.2.1-2.3 1.1-3 .4-.3.9-.2 1.2.1Z"/></svg>WhatsApp</a>
 </div>
-<script defer src="/js/script.js?v=20260809-03"></script>
+<script defer src="/js/script.js?v=20260809-04"></script>
 </body>
 </html>

diff --git a/hizmetler/evden-eve-nakliyat.html b/hizmetler/evden-eve-nakliyat.html
@@ -26,7 +26,7 @@
   <meta name="twitter:image" content="https://www.canpolatnakliyat.com/assets/images/service-evden-eve.webp">
   <link rel="icon" href="/assets/images/favicon-canpolat.svg" type="image/svg+xml">
   <link rel="manifest" href="/manifest.webmanifest">
-  <link rel="stylesheet" href="/css/style.css?v=20260809-10">
+  <link rel="stylesheet" href="/css/style.css?v=20260809-11">
   <script type="application/ld+json">
 {
   "@context": "https://schema.org",
@@ -259,6 +259,6 @@
   <a class="mobile-contact-bar__phone" href="tel:+905359120691"><svg aria-hidden="true" viewBox="0 0 24 24"><path d="M7 3h3l1.5 4-2 1.5a15 15 0 0 0 6 6l1.5-2 4 1.5v3c0 2.2-1.8 4-4 4C9.3 21 3 14.7 3 7c0-2.2 1.8-4 4-4Z"/></svg>Ara</a>
   <a class="mobile-contact-bar__wa" href="https://wa.me/905359120691" target="_blank" rel="noopener"><svg aria-hidden="true" viewBox="0 0 24 24"><path d="M20.5 11.8a8.5 8.5 0 0 1-12.6 7.4L3.5 20.5l1.2-4.3a8.5 8.5 0 1 1 15.8-4.4Z"/><path d="M8.2 7.8c.5-.6 1.1-.3 1.3.2l.9 2-1 1c.8 1.5 2 2.7 3.6 3.4l.9-1 2.1 1c.4.2.5.8.2 1.2-.8 1.1-2 1.4-3.3 1-3.3-1.1-5.9-3.6-7-6.9-.4-1.2.1-2.3 1.1-3 .4-.3.9-.2 1.2.1Z"/></svg>WhatsApp</a>
 </div>
-<script defer src="/js/script.js?v=20260809-03"></script>
+<script defer src="/js/script.js?v=20260809-04"></script>
 </body>
 </html>

diff --git a/hizmetler/paketleme-montaj.html b/hizmetler/paketleme-montaj.html
@@ -26,7 +26,7 @@
   <meta name="twitter:image" content="https://www.canpolatnakliyat.com/assets/images/service-paketleme.webp">
   <link rel="icon" href="/assets/images/favicon-canpolat.svg" type="image/svg+xml">
   <link rel="manifest" href="/manifest.webmanifest">
-  <link rel="stylesheet" href="/css/style.css?v=20260809-10">
+  <link rel="stylesheet" href="/css/style.css?v=20260809-11">
   <script type="application/ld+json">
 {
   "@context": "https://schema.org",
@@ -259,6 +259,6 @@
   <a class="mobile-contact-bar__phone" href="tel:+905359120691"><svg aria-hidden="true" viewBox="0 0 24 24"><path d="M7 3h3l1.5 4-2 1.5a15 15 0 0 0 6 6l1.5-2 4 1.5v3c0 2.2-1.8 4-4 4C9.3 21 3 14.7 3 7c0-2.2 1.8-4 4-4Z"/></svg>Ara</a>
   <a class="mobile-contact-bar__wa" href="https://wa.me/905359120691" target="_blank" rel="noopener"><svg aria-hidden="true" viewBox="0 0 24 24"><path d="M20.5 11.8a8.5 8.5 0 0 1-12.6 7.4L3.5 20.5l1.2-4.3a8.5 8.5 0 1 1 15.8-4.4Z"/><path d="M8.2 7.8c.5-.6 1.1-.3 1.3.2l.9 2-1 1c.8 1.5 2 2.7 3.6 3.4l.9-1 2.1 1c.4.2.5.8.2 1.2-.8 1.1-2 1.4-3.3 1-3.3-1.1-5.9-3.6-7-6.9-.4-1.2.1-2.3 1.1-3 .4-.3.9-.2 1.2.1Z"/></svg>WhatsApp</a>
 </div>
-<script defer src="/js/script.js?v=20260809-03"></script>
+<script defer src="/js/script.js?v=20260809-04"></script>
 </body>
 </html>

diff --git a/hizmetler/ofis-isyeri-tasima.html b/hizmetler/ofis-isyeri-tasima.html
@@ -26,7 +26,7 @@
   <meta name="twitter:image" content="https://www.canpolatnakliyat.com/assets/images/service-ofis.webp">
   <link rel="icon" href="/assets/images/favicon-canpolat.svg" type="image/svg+xml">
   <link rel="manifest" href="/manifest.webmanifest">
-  <link rel="stylesheet" href="/css/style.css?v=20260809-10">
+  <link rel="stylesheet" href="/css/style.css?v=20260809-11">
   <script type="application/ld+json">
 {
   "@context": "https://schema.org",
@@ -259,6 +259,6 @@
   <a class="mobile-contact-bar__phone" href="tel:+905359120691"><svg aria-hidden="true" viewBox="0 0 24 24"><path d="M7 3h3l1.5 4-2 1.5a15 15 0 0 0 6 6l1.5-2 4 1.5v3c0 2.2-1.8 4-4 4C9.3 21 3 14.7 3 7c0-2.2 1.8-4 4-4Z"/></svg>Ara</a>
   <a class="mobile-contact-bar__wa" href="https://wa.me/905359120691" target="_blank" rel="noopener"><svg aria-hidden="true" viewBox="0 0 24 24"><path d="M20.5 11.8a8.5 8.5 0 0 1-12.6 7.4L3.5 20.5l1.2-4.3a8.5 8.5 0 1 1 15.8-4.4Z"/><path d="M8.2 7.8c.5-.6 1.1-.3 1.3.2l.9 2-1 1c.8 1.5 2 2.7 3.6 3.4l.9-1 2.1 1c.4.2.5.8.2 1.2-.8 1.1-2 1.4-3.3 1-3.3-1.1-5.9-3.6-7-6.9-.4-1.2.1-2.3 1.1-3 .4-.3.9-.2 1.2.1Z"/></svg>WhatsApp</a>
 </div>
-<script defer src="/js/script.js?v=20260809-03"></script>
+<script defer src="/js/script.js?v=20260809-04"></script>
 </body>
 </html>
